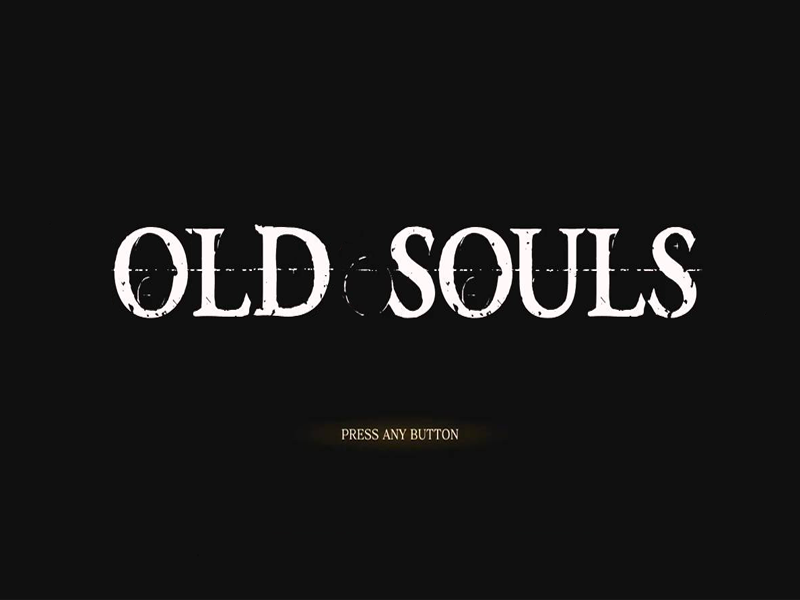
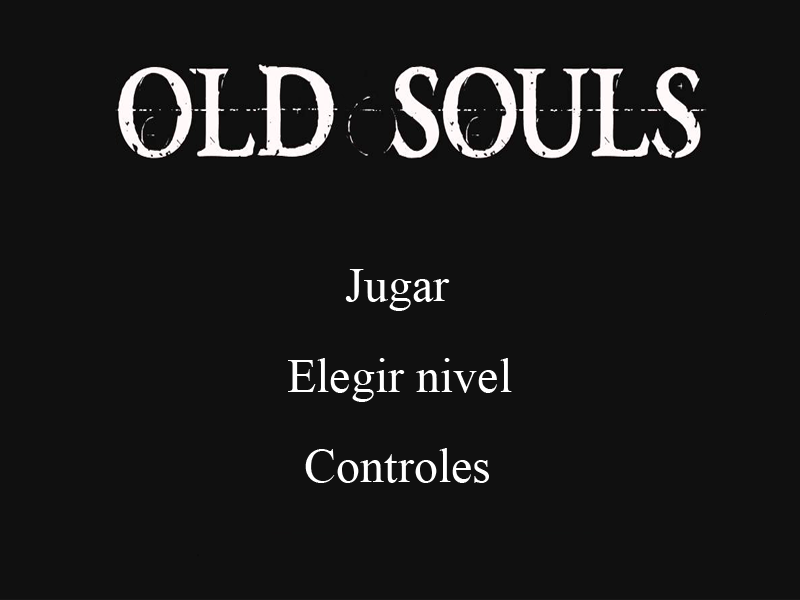
Menu completo

diff --git a/plantilla-juego/src/js/main.js b/plantilla-juego/src/js/main.js
@@ -4,6 +4,8 @@ var PlayScene = require('./play_scene.js');
 var NivelBosque = require('./NivelBosque.js');
 var play_sceneCueva = require('./play_sceneCueva.js');
 var MainMenu = require('./MainMenu.js');
+var MenuLevels = require('./MenuLevels.js');
+var MenuControles = require('./MenuControles.js');
 
 
 var BootScene = {
@@ -28,6 +30,7 @@ var PreloaderScene = {
 
     //imagenes
     this.game.load.image('logo', 'images/Fondo.png');
+    this.game.load.image('vacio', 'images/vacio.png');
     this.game.load.image('titlesouls', 'images/TextoOldSouls.png');
     this.game.load.spritesheet('esqueleto', 'images/skeletons2.png',32, 50, 24);
     this.game.load.spritesheet('archer', 'images/Arquero.png',44,52,16);
@@ -41,6 +44,8 @@ var PreloaderScene = {
     this.game.load.image('tilesetCueva', 'images/tilesetCueva.png');
     this.game.load.image('tileset', 'images/tileset.png');
     this.game.load.image('menu', 'images/Menu.png');
+    this.game.load.image('menulevels', 'images/MenuLevels.png');
+    this.game.load.image('menucontroles', 'images/MenuControles.png');
     this.game.load.image('rock', 'images/Pedrolo.png');
     this.game.load.image('estus', 'images/Estus.png');
     this.game.load.image('cross', 'images/cross.png');
@@ -58,6 +63,9 @@ var PreloaderScene = {
     this.game.load.image('maza', 'images/maza.png');
     this.game.load.image('e', 'images/e.png');
     this.game.load.spritesheet('bonfire', 'images/Hoguera.png',36,40,4);
+    this.game.load.image('jose', 'images/Joselillo.png');
+    this.game.load.image('solaire', 'images/Solaire.png');
+    this.game.load.image('thanos', 'images/Thanos.png');
 
     //musica
     this.game.load.audio('musicmenu', 'music/mainmenu.mp3');
@@ -80,7 +88,7 @@ var PreloaderScene = {
   },
 
   create: function () {
-    this.game.state.start('cueva');
+    this.game.state.start('mainmenu');
   }
 };
 
@@ -108,6 +116,10 @@ window.onload = function () {
   game.state.add('bosque', NivelBosque);
   game.state.add('cueva', play_sceneCueva);
   game.state.add('mainmenu', MainMenu);
+  game.state.add('levels', MenuLevels);
+  game.state.add('controles', MenuControles);
+
+  game.musicaplaying = true;
 
   game.state.start('boot');
 };

diff --git a/plantilla-juego/src/js/MainMenu.js b/plantilla-juego/src/js/MainMenu.js
@@ -4,37 +4,38 @@ var MainMenu = {
 
     create:function (game) {
 
-        var titlescreen;
-        var music;
-
-        music = game.sound.play('musicmenu');
-
+        var background;
+        background = game.add.sprite(game.world.centerX, game.world.centerY, 'menu');
+        background.anchor.setTo(0.5,0.5);
+        game.musica = game.add.sound('musicmenu');
+        if(game.musicaplaying) {
+            game.musica.play();
+            game.musicaplaying = false;
+        }
         
-        this.createButton(game, game.world.centerX, game.world.centerY + 150, 300, 100,
-        function(){
-            this.state.start('play');
+        this.createButton(game, game.world.centerX, game.world.centerY - 10, 300, 50,
+            function(){
+                this.state.start('cueva');
+                game.musica.pause();
         });
-
-        titlescreen = game.add.sprite(game.world.centerX, game.world.centerY, 'menu');
-        titlescreen.anchor.setTo(0.5,0.5);
+        this.createButton(game, game.world.centerX, game.world.centerY + 80, 300, 50,
+            function(){
+                this.state.start('levels');
+        });
+        this.createButton(game, game.world.centerX, game.world.centerY + 170, 300, 50,
+            function(){
+                this.state.start('controles');
+        });
         
-    },
-
-    update:function (game) {
-
-
     },
 
     createButton : function(game, x, y, w, h, callback){
-        var button1 = game.add.button(x,y,'button', callback, this, 2,1);
+        var button1 = game.add.button(x,y,'vacio', callback, this, 2,1);
 
         button1.anchor.setTo(0.5,0.5);
         button1.width = w;
         button1.height = h;
-
     }
-
-
 
 };
 module.exports = MainMenu;

diff --git a/plantilla-juego/src/js/MenuLevels.js b/plantilla-juego/src/js/MenuLevels.js
@@ -1,0 +1,43 @@
+'use strict'
+
+var MenuLevels = {
+
+    create:function (game) {
+
+        var background;
+        background = game.add.sprite(game.world.centerX, game.world.centerY, 'menulevels');
+        background.anchor.setTo(0.5,0.5);
+        
+        this.createButton(game, game.world.centerX - 250, game.world.centerY - 100, 200, 200,
+            function(){
+                this.state.start('cueva');
+                game.musica.pause();
+        });
+        this.createButton(game, game.world.centerX, game.world.centerY - 100, 200, 200,
+            function(){
+                this.state.start('bosque');
+                game.musica.pause();
+        });
+        this.createButton(game, game.world.centerX + 250, game.world.centerY - 100, 200, 200,
+            function(){
+                this.state.start('play');
+                game.musica.pause();
+        });
+        this.createButton(game, 120, game.world.centerY + 240, 150, 50,
+            function(){
+                this.state.start('mainmenu');
+        });
+        
+    },
+
+    createButton : function(game, x, y, w, h, callback){
+        var button1 = game.add.button(x,y,'vacio', callback, this, 2,1);
+
+        button1.anchor.setTo(0.5,0.5);
+        button1.width = w;
+        button1.height = h;
+
+    }
+
+};
+module.exports = MenuLevels;

diff --git a/plantilla-juego/src/js/MenuControles.js b/plantilla-juego/src/js/MenuControles.js
@@ -1,0 +1,30 @@
+'use strict'
+
+var MenuControles = {
+
+    create:function (game) {
+
+        var background;
+        background = game.add.sprite(game.world.centerX, game.world.centerY, 'menucontroles');
+        background.anchor.setTo(0.5,0.5);
+        
+        this.createButton(game, 120, game.world.centerY + 240, 150, 50,
+            function(){
+                this.state.start('mainmenu');
+        });
+        
+    },
+    
+    createButton : function(game, x, y, w, h, callback){
+        var button1 = game.add.button(x,y,'vacio', callback, this, 2,1);
+
+        button1.anchor.setTo(0.5,0.5);
+        button1.width = w;
+        button1.height = h;
+
+    }
+
+
+
+};
+module.exports = MenuControles;

diff --git a/plantilla-juego/src/js/play_scene.js b/plantilla-juego/src/js/play_scene.js
@@ -95,7 +95,7 @@ var PlayScene = {
     this.sword.create();
     this.fireCone = new FireCone(this.game, -50, 0, 0, 'firecone');
     this.fireCone.create();
-    this.enepece = new NPC(this.game, 600, 350, "player", "Me cago en todos tus muertos,\nhijo de las mil putas");
+    this.enepece = new NPC(this.game, 600, 350, "solaire", "Tanto alabar al sol, que al final\nse me han quedado los brazos asi");
     this.enepece.create();
     this.chest = new Chest(this.game, 1980, 1895, "chest", "speed");
     this.chest.create();

diff --git a/plantilla-juego/src/js/play_sceneCueva.js b/plantilla-juego/src/js/play_sceneCueva.js
@@ -95,7 +95,7 @@ var PlayScene = {
     this.sword.create();
     this.fireCone = new FireCone(this.game, -50, 0, 0, 'firecone');
     this.fireCone.create();
-    this.enepece = new NPC(this.game, 142, 2441, "player", "Venga brother a casa\nque es tarde");
+    this.enepece = new NPC(this.game, 142, 2441, "jose", "Llevo siglos aqui en esta cueva\ny todavia tengo que hacer TPV");
     this.enepece.create();
     this.chest = new Chest(this.game, 1785, 230, "chest", "armor");
     this.chest.create();

diff --git a/plantilla-juego/src/js/NivelBosque.js b/plantilla-juego/src/js/NivelBosque.js
@@ -95,7 +95,7 @@ var PlayScene = {
     this.sword.create();
     this.fireCone = new FireCone(this.game, -50, 0, 0, 'firecone');
     this.fireCone.create();
-    this.enepece = new NPC(this.game, 855, 209, "player", "I only abuse of\nyour mother negro");
+    this.enepece = new NPC(this.game, 855, 209, "thanos", "Yo exterminaria a los esqueletos,\npero solo a la mitad");
     this.enepece.create();
     this.chest = new Chest(this.game, 410, 1157, "chest", "estus");
     this.chest.create();

diff --git a/plantilla-juego/src/js/player.js b/plantilla-juego/src/js/player.js
@@ -16,7 +16,7 @@ function Player(game,speed,x,y,spritename,cursors, sword, fireCone, spriteweapon
     this.attacking = false;
     this.sword = sword;
     this.fireCone = fireCone;
-    this.invincible = true;
+    this.invincible = false;
     this.moving = true;
     this.blocking = false;
     this.rolling = false;
